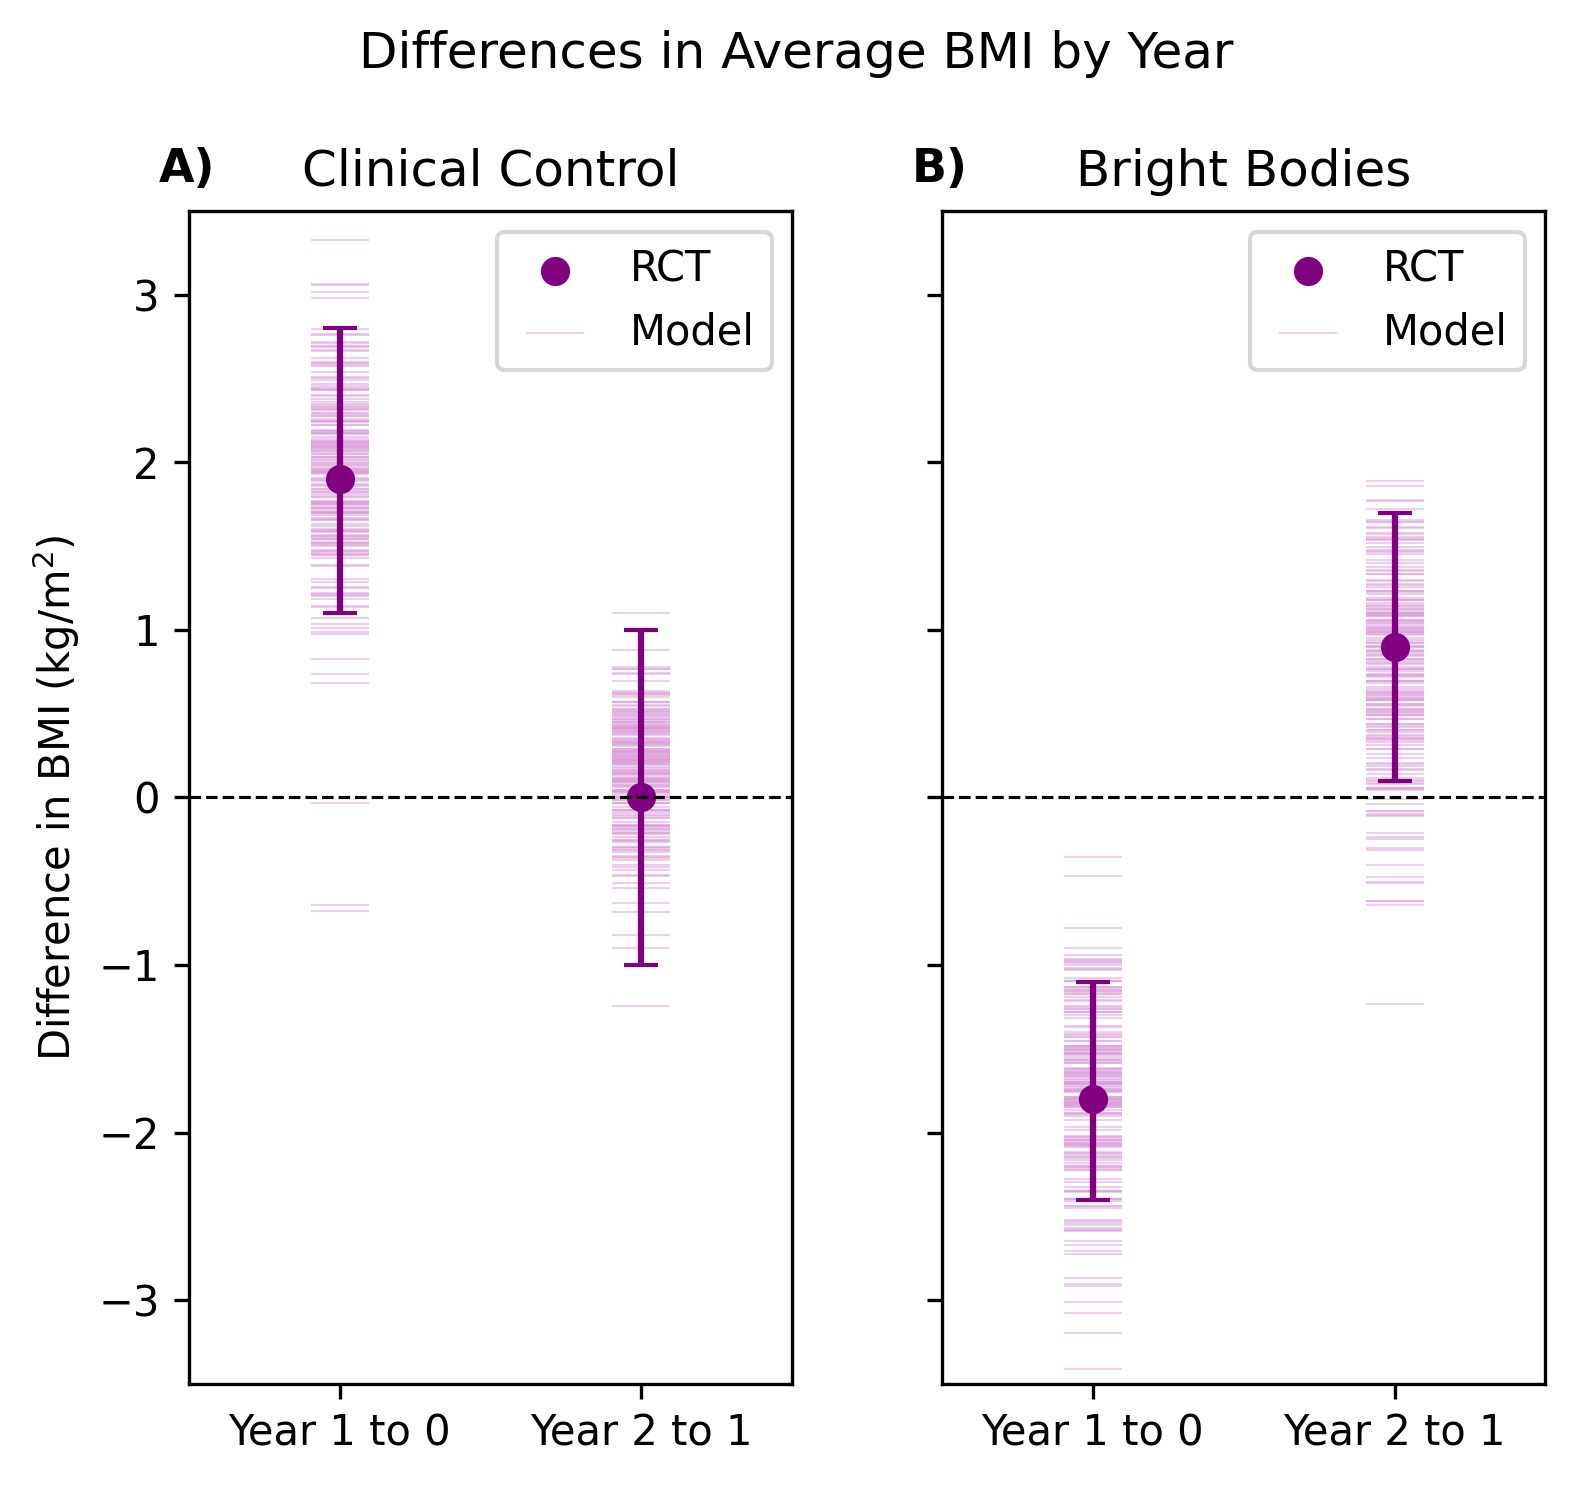
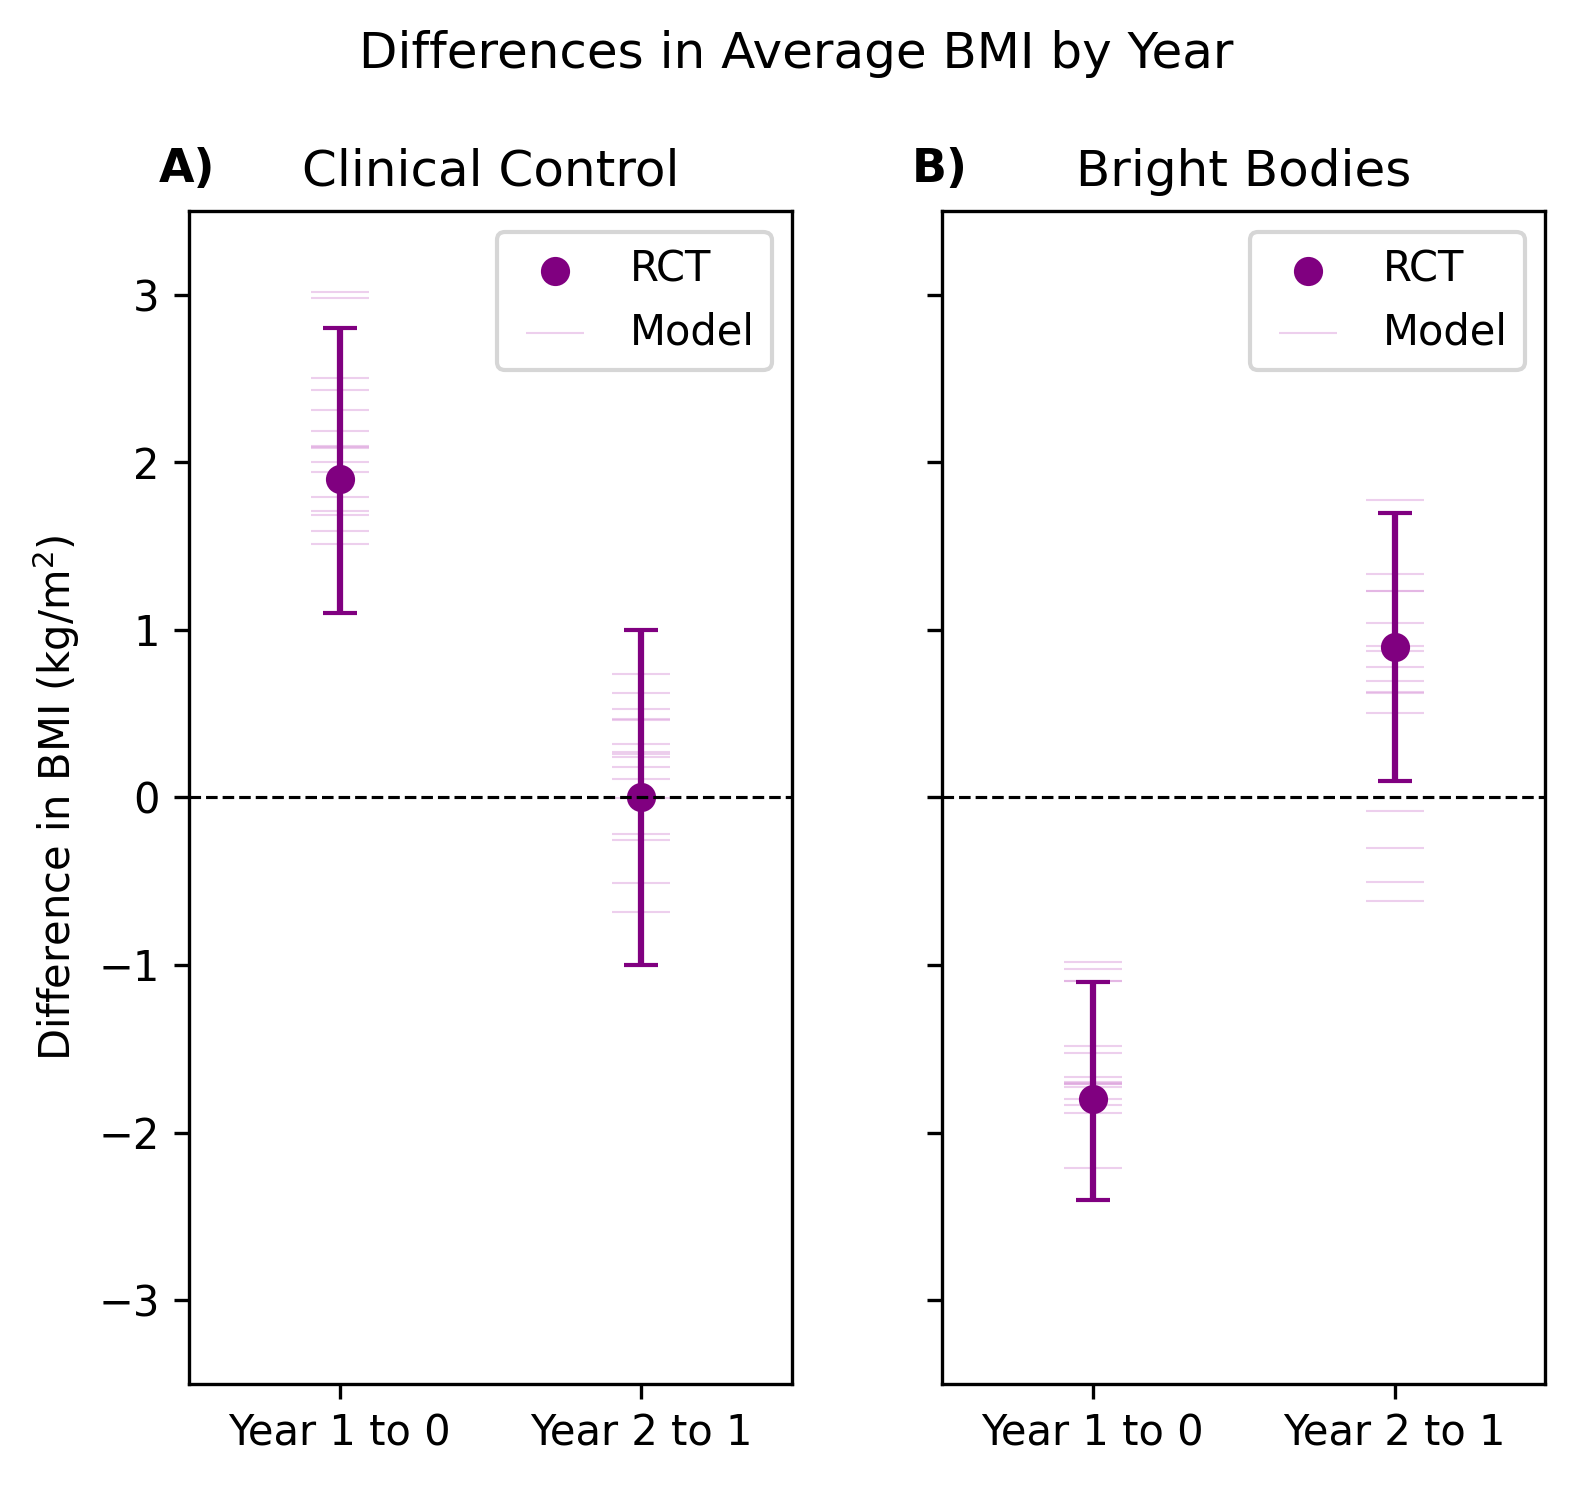
pooled estimate

diff --git a/bright_bodies_support/Inputs.py b/bright_bodies_support/Inputs.py
@@ -1,7 +1,5 @@
 from enum import Enum
 
-import deampy.statistics as Stat
-
 
 class Interventions(Enum):
     """ Bright Bodies v. Clinical Care """
@@ -28,7 +26,7 @@ class ModelInputs:
         self.simInit = 0.00001  # (years) initialization period to create the cohort
         self.simDuration = 10   # (years) simulation duration
         self.popSize = 90     # population size of each cohort
-        self.nCohorts = 200      # number of cohorts
+        self.nCohorts = 16      # number of cohorts
 
         # to discount outcomes and calculate the current value of old costs
         self.currentYear = 2020
@@ -50,59 +48,65 @@ class ModelInputs:
         # dictionary of cost items for Bright Bodies
         # each element is a list of [mean, stDev]
         self.dictCostBB = {
-            'Exercise physiologist A': [5474.56*(1+fringe_rate), 0.1 * 5474.56*(1+fringe_rate)],
-            'Exercise physiologist B': [(6843.20*(1+fringe_rate)), 0.1 * 6843.20*(1+fringe_rate)],
-            'Games and equipment': [2409.66, 0.1 * 2409.66],
-            'Motivational tools': [304.38, 0.1 * 304.38],
-            'Printed material (Exercise Session)': [31.71, 0.1 * 31.71],
-            'Gym room and utilities': [10400, 0.1 * 10400],
-            'First aid kit': [190.24, 0.1 * 190.24],
-            'Registered dietitian A': [(1558.44*(1+fringe_rate)), 0.1 * 1558.44*(1+fringe_rate)],
-            'Registered dietitian B': [(4675.32*(1+fringe_rate)), 0.1 * 4675.32*(1+fringe_rate)],
-            'Social worker (Nutrition Session)': [(1259.96*(1+fringe_rate)), 0.1 * 1259.96*(1+fringe_rate)],
-            'Educational tools': [1712.13, 0.1 * 1712.13],
-            'Classroom and utilities (Nutrition Session)': [2600, 0.1 * 2600],
-            'Social worker (Parent Session)': [(1259.96*(1+fringe_rate)), 0.1 * 1259.96+(1259.96*fringe_rate)],
-            'Printed material (Parent Session)': [31.71, 0.1 * 31.71],
-            'Classroom and utilities (Parent Session)': [2600, 0.1 * 2600],
-            'Program coordinator (exercise physiologist)(admin)': [(6843.20*(1+fringe_rate)),
-                                                                   0.1 * 6843.20*(1+fringe_rate)],
-            'Program director (registered dietitian)(admin)': [(12467.52*(1+fringe_rate)),
-                                                               0.1 * 12467.52*(1+fringe_rate)],
-            'Dept clinical secretary': [(549.30*(1+fringe_rate)), 0.1 * 549.30*(1+fringe_rate)],
-            'Technician': [(1416.60*(1+fringe_rate)), 0.1 * 1416.60*(1+fringe_rate)],
-            'Body fat analyzer and scale': [887.77, 0.1 * 887.77],
-            'Stadiometer': [76.09, 0.1 * 76.09],
-            'Medical consultation': [(5331.56*(1+fringe_rate)), 0.1 * 5331.56*(1+fringe_rate)],
-            'Rent space, utilities': [3804.73, 0.1 * 3804.73],
-            'Cleaning service': [1122.39, 0.1 * 1122.39],
-            'Clinic equipment and supplies': [3677.90, 0.1 * 3677.90]
+            'Exercise Physiologist A': [5595.00 * (1 + fringe_rate), 0.1 * 5595.00 * (1 + fringe_rate)],
+            'Exercise Physiologist B': [6993.75 * (1 + fringe_rate), 0.1 * 6993.75 * (1 + fringe_rate)],
+            'Games and Equipment:': [2521.25, 0.1 * 2521.25],
+            'Motivational Tools:': [318.47, 0.1 * 318.47],
+            'Printed Materials (Exercise Session)': [33.17, 0.1 * 33.17],
+            'Gym Room and Utilities': [10400.00, 0.1 * 10400.00],
+            'First Aid Kit': [199.05, 0.1 * 199.05],
+            'Registered Dietitian A': [1592.73 * (1 + fringe_rate), 0.1 * 1592.73 * (1 + fringe_rate)],
+            'Registered Dietitian B': [4778.18 * (1 + fringe_rate), 0.1 * 4778.18 * (1 + fringe_rate)],
+            'Social Worker (Nutrition Session)': [1287.68 * (1 + fringe_rate), 0.1 * 1287.68 * (1 + fringe_rate)],
+            'Educational Tools ': [1791.41, 0.1 * 1791.41],
+            'Classroom and Utilities (Nutrition Session)': [2600.00, 0.1 * 2600.00],
+            'Social Worker (Parent Session)': [1287.68 * (1 + fringe_rate), 0.1 * 1287.68 * (1 + fringe_rate)],
+            'Printed Materials (Parent Session)': [33.17, 0.1 * 33.17],
+            'Classroom and Utilities (Parent Session)': [2600.00, 0.1 * 2600.00],
+            'Program Coordinator (exercise physiologist)(admin)': [6993.75 * (1 + fringe_rate),
+                                                                   0.1 * 6993.75 * (1 + fringe_rate)],
+            'Program Director (registered dietitian)(admin)': [12741.81 * (1 + fringe_rate),
+                                                               0.1 * 12741.81 * (1 + fringe_rate)],
+            'Department Clinical Secretary': [561.38 * (1 + fringe_rate), 0.1 * 561.38 * (1 + fringe_rate)],
+            'Technician': [1447.77 * (1 + fringe_rate), 0.1 * 1447.77 * (1 + fringe_rate)],
+            'Equipment (Weight): ': [928.88, 0.1 * 928.88],
+            'Equipment (Height):': [79.62, 0.1 * 79.62],
+            'Medical Director': [5448.85 * (1 + fringe_rate), 0.1 * 5448.85 * (1 + fringe_rate)],
+            'Space:': [3980.91, 0.1 * 3980.91],
+            'Cleaning Service': [1174.37, 0.1 * 1174.37],
+            'Clinic Equipment and Supplies ': [3848.22, 0.1 * 3848.22]
         }
 
         # dictionary of cost items for the Control
         # each element is a list of [mean, stDev]
         self.dictCostControl = {
-            'Nurse visit / follow up': [(14517.90*(1+fringe_rate)), 0.1 * 14517.90*(1+fringe_rate)],
-            'Nutrition visit / follow up': [(5619.38*(1+fringe_rate)), 0.1 * 5619.38*(1+fringe_rate)],
-            'Behavioral visit / follow up': [(4361.40*(1+fringe_rate)), 0.1 * 4361.40*(1+fringe_rate)],
-            'Dept clinical secretary': [(549.30*(1+fringe_rate)), 0.1 * 549.30*(1+fringe_rate)],
-            # 'Typing': [(1647.90*(1+fringe_rate)), 0.1 * 1647.90*(1+fringe_rate)],
-            'Lab technician': [(1416.60*(1+fringe_rate)), 0.1 * 1416.60*(1+fringe_rate)],
-            'Medical consultation': [(12303.60*(1+fringe_rate)), 0.1 * 12303.60*(1+fringe_rate)],
-            'Rent space, utilities': [3804.73, 0.1 * 3804.73],
-            'Cleaning service': [1122.39, 0.1 * 1122.39],
-            'Clinic equipment and supplies': [3677.90, 0.1 * 3677.90]
+            'Nurse Practitioner': [14837.29 * (1 + fringe_rate), 0.1 * 14837.29 * (1 + fringe_rate)],
+            'Registered Dietitian': [5743.00 * (1 + fringe_rate), 0.1 * 5743.00 * (1 + fringe_rate)],
+            'Social Worker (Behavioral visit)': [4457.35 * (1 + fringe_rate), 0.1 * 4457.35 * (1 + fringe_rate)],
+            'Department Clinical Secretary': [2245.54 * (1 + fringe_rate), 0.1 * 2245.54 * (1 + fringe_rate)],
+            'Technician': [1447.77 * (1 + fringe_rate), 0.1 * 1447.77 * (1 + fringe_rate)],
+            'Medical Director': [12574.28 * (1 + fringe_rate), 0.1 * 12574.28 * (1 + fringe_rate)],
+            'Space:': [3980.91, 0.1 * 3980.91],
+            'Cleaning Service': [1174.37, 0.1 * 1174.37],
+            'Clinic Equipment and Supplies ': [3848.22, 0.1 * 3848.22]
         }
 
         # calculate the standard deviation of the estimated mean
-        # (note st_dev of the estimated mean = st_dev of observations / sqrt(n), which the standard error)
-        sd_dev_younger18_obese = Stat.get_sterr_from_half_length(confidence_interval=[30, 450], n=2812, alpha=0.05)
-        sd_dev_younger18_overweigth = Stat.get_sterr_from_half_length(confidence_interval=[30, 380], n=2832, alpha=0.05)
+        # sd_dev_younger18_obese = Stat.get_sterr_from_half_length(
+        #     confidence_interval=[30, 450], n=2812, alpha=0.05)
+        # sd_dev_younger18_overweigth = Stat.get_sterr_from_half_length(
+        #     confidence_interval=[30, 380], n=2832, alpha=0.05)
+        #
+        # self.dictHCExp = {
+        #     '<18 years, >95th %ile': [220, sd_dev_younger18_obese],
+        #     '<18 years, <95th %ile': [180, sd_dev_younger18_overweigth],
+        #     '>18 years': [197, 43]
+        # }
 
         self.dictHCExp = {
-            '<18 years, >95th %ile': [220, sd_dev_younger18_obese],
-            '<18 years, <95th %ile': [180, sd_dev_younger18_overweigth],
-            '>18 years': [197, 43]
+            '<18 years, >95th %ile': [133, 62],
+            '<18 years, <95th %ile': [180, 89],
+            '>18 years': [223, 44]
         }
 
         # to inflate cost estimates
@@ -135,7 +139,7 @@ class ModelInputs:
             [16, 1, 0.055305708]  # 16, female
         ]
 
-        # bmi cut offs
+        # bmi cutoffs
         # 85th bmi cutoffs
         self.bmi85thCutOffs = [
             # age, sex, bmi_cutoff

diff --git a/bright_bodies_analysis/CompareAlternatives.py b/bright_bodies_analysis/CompareAlternatives.py
@@ -1,7 +1,8 @@
+import deampy.plots.sample_paths as Path
+
 import bright_bodies_support.CEA as CEA
 import bright_bodies_support.Inputs as I
 import bright_bodies_support.Plots as P
-import deampy.plots.sample_paths as Path
 from bright_bodies_support.ParameterGenerator import ParamGenerator
 from yom import MultiCohortClasses as MultiCls
 
@@ -145,5 +146,5 @@ def compare(scenario):
 if __name__ == '__main__':
 
     compare(scenario=I.EffectMaintenance.DEPREC)
-    compare(scenario=I.EffectMaintenance.NONE)
-    compare(scenario=I.EffectMaintenance.FULL)
+    # compare(scenario=I.EffectMaintenance.NONE)
+    # compare(scenario=I.EffectMaintenance.FULL)
